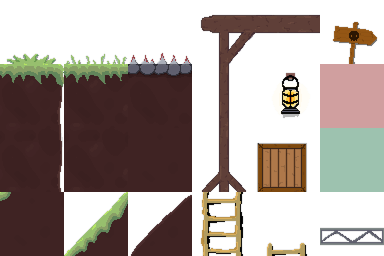
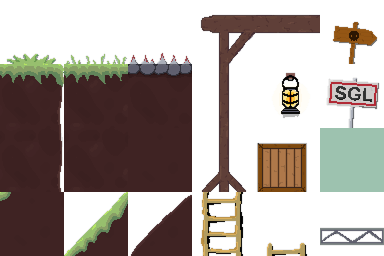
chore: end of level

Changed region(s): [[0.8125, 0.25, 1.0, 0.5]]

diff --git a/src/game/game/Game.ts b/src/game/game/Game.ts
@@ -14,9 +14,12 @@ export class Game {
 
   deathAnimation: DeathAnimation;
 
+  isWin = false;
+
   constructor(
     readonly engine: Engine,
-    readonly onRestart: () => void
+    readonly onRestart: () => void,
+    readonly onWin: () => void
   ) {
     this.audioManager = new AudioManager();
     this.player = new Player(engine, this.audioManager);
@@ -33,6 +36,11 @@ export class Game {
         this.audioManager.stopMusic();
         onRestart();
       });
+    };
+
+    this.player.onWinCallback = () => {
+      if (this.isWin) return;
+      this.win();
     };
   }
 
@@ -59,5 +67,11 @@ export class Game {
 
   start() {
     this.engine.start();
+  }
+
+  win() {
+    this.isWin = true;
+    console.log("You win!");
+    this.onWin();
   }
 }

diff --git a/src/game/player/player.ts b/src/game/player/player.ts
@@ -4,6 +4,8 @@ import { PlayerMovement } from "./playerMovement";
 import { PlayerSprite } from "./PlayerSprite";
 import { AudioManager } from "../audio/AudioManager";
 
+const WIN_X_POSITION = 20450;
+
 export class Player {
   sprite?: PlayerSprite;
   readonly movement: PlayerMovement;
@@ -17,6 +19,7 @@ export class Player {
   }
 
   onDeathCallback?: () => void;
+  onWinCallback?: () => void;
 
   constructor(
     readonly engine: Engine,
@@ -57,6 +60,10 @@ export class Player {
   }
 
   syncWithPhysics() {
+    if (this.body.position.x > WIN_X_POSITION) {
+      this.onWinCallback?.();
+    }
+
     this.sprite?.update(
       this.body.position.x,
       this.body.position.y,

diff --git a/src/components/GameCanvas.vue b/src/components/GameCanvas.vue
@@ -72,7 +72,11 @@ onMounted(async () => {
     await engine.init();
     appStore.engine = engine;
 
-    const game = new Game(engine, () => (appStore.state = "none"));
+    const game = new Game(
+      engine,
+      () => (appStore.state = "none"),
+      () => (appStore.state = "won")
+    );
     game.start();
 
     setTimeout(() => {
